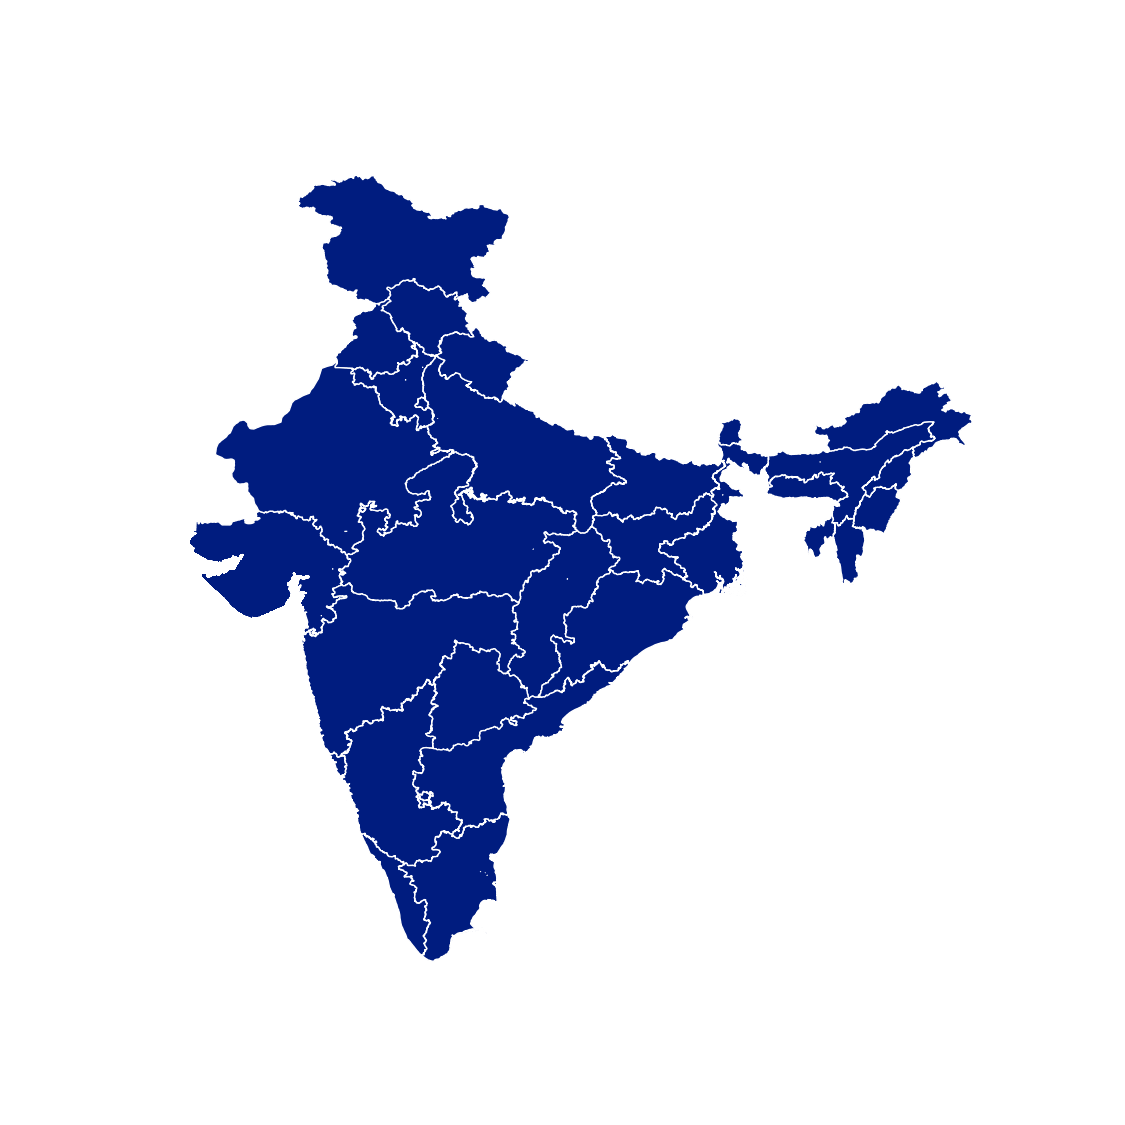
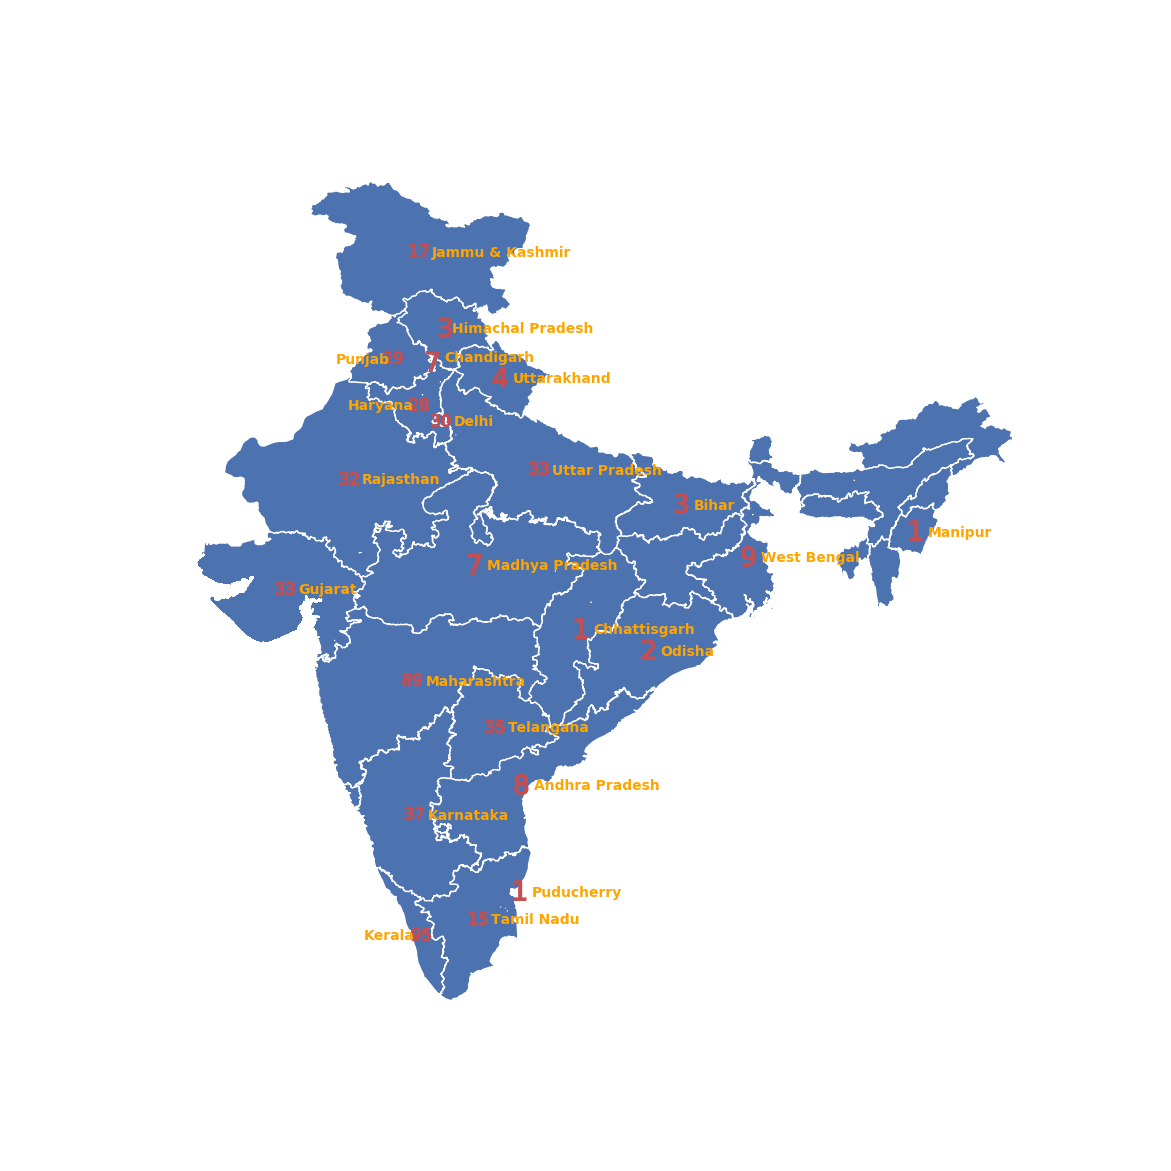
Image Generation Script Ready

Changed region(s): [[0.1556, 0.1556, 0.8711, 0.8711]]

diff --git a/map_generator.py b/map_generator.py
@@ -1,50 +1,104 @@
 import numpy as np
 import pandas as pd
 import matplotlib.pyplot as plt
+import matplotlib.pylab as pyl
 import seaborn as sns
 import geopandas as gpd
 import io
 from PIL import Image
 import cv2
+import json
+import urllib3
+# def calc_colour(value):
 
-## Initialize the Visualization
+
+# Load the JSON File and Fetch the Data
+http = urllib3.PoolManager()
+r = http.request('GET', 'http://corona.camcann.com/stats')
+data =  json.loads(r.data.decode('utf-8'))
+new = pd.DataFrame.from_dict(data['data']['regional'])
+
+# Including the Ladakh UT stats along with Jammu and Kashmir Region Only and other Mofifications
+for x in new.columns[:-1]:
+    new.loc[new['loc'] == 'Jammu and Kashmir',x] =   int(new.loc[new['loc'] == 'Jammu and Kashmir'][x].values + new.loc[new['loc'] == 'Ladakh'][x].values)
+new.drop(new[new['loc'] == 'Ladakh'].index, inplace = True)
+new.loc[new['loc'] == 'Telengana', 'loc'] = 'Telangana'
+new.loc[new['loc'] == 'Jammu and Kashmir', 'loc'] = 'Jammu & Kashmir'
+new.reset_index(level=0, inplace=True)
+new.drop('index', axis = 1,inplace = True)
+new.columns = ['confirmedCasesForeign', 'confirmedCasesIndian', 'deaths', 'discharged','st_nm']
+states = list(new['st_nm'])
+
+
+# ## Initialize the Visualization and Read the Template
+image = cv2.imread('template2.png')
+# image = cv2.resize(image, (1125,1125))
+image[np.where((image==[255,255,255]).all(axis=2))] = [0,0,0];
 sns.set(style = 'whitegrid', palette = 'dark', color_codes = True)
-my_dpi = 96
-figsize = (1080/my_dpi,1080/my_dpi)
-plt.rcParams['figure.figsize'] = figsize
+figsize = (image.shape[0]/96,image.shape[1]/96)
+sns.set(rc={'figure.figsize':figsize})
 
-## Read the Shape Files
+# Read the Shape Files
 shp_path = 'Indian_States.shp'
 sdf = gpd.read_file(shp_path)
 
-## Considering only the Mainland India
+# Considering only the Mainland India and making modifications in dataframe
+sdf.loc[sdf['st_nm'] == 'NCT of Delhi','st_nm'] = 'Delhi'
 sdf = sdf.iloc[1:,:]
 sdf.drop([16], inplace = True)
+sdf.plot()
 
-sdf['centroid_x'] = 0
-sdf['centroid_y'] = 0
-for i in sdf.index:
-    sdf.loc[i, 'centroid_x'] = sdf.loc[i,'geometry'].centroid.x
-    sdf.loc[i, 'centroid_y'] = sdf.loc[i,'geometry'].centroid.y
+ssdf = pd.DataFrame(sdf[sdf['st_nm'].isin(states)])
+ssdf.reset_index(level=0, inplace=True)
+ssdf.drop('index', axis = 1, inplace = True)
+print(ssdf)
+st_names = list(ssdf.st_nm)
 
-x_list = list(sdf['centroid_x'])
-y_list = list(sdf['centroid_y'])
-st_names = list(sdf.st_nm)
-image = cv2.imread('template.jpg')
-fig = sdf.plot()
+
+# Calculating centroid points
+ssdf['centroid_x'] = 0
+ssdf['centroid_y'] = 0
+ssdf['confirmedCases'] = 0
+print(ssdf.columns)
+print(new.columns)
+for i in ssdf.index:
+    st = ssdf.loc[i]['st_nm']
+    cc = new.loc[new['st_nm'] == st]['confirmedCasesForeign'].values + new.loc[new['st_nm'] == st]['confirmedCasesIndian'].values
+    ssdf.loc[i, 'centroid_x'] = ssdf.loc[i,'geometry'].centroid.x
+    ssdf.loc[i, 'centroid_y'] = ssdf.loc[i,'geometry'].centroid.y
+    ssdf.loc[i, 'confirmedCases'] = cc
+x_list = list(ssdf['centroid_x'])
+y_list = list(ssdf['centroid_y'])
+confirmedCases = list(ssdf['confirmedCases'])
+
+
+
+
+
 plt.axis('off')
-# for i,st in enumerate(st_names):
-#     plt.scatter(x_list[i],y_list[i],c = 'r', s = 250, marker=r"$ {} $".format(i))
-
+for i,st in enumerate(st_names):
+    # print(st)
+    if st == 'Punjab':
+        plt.text(x_list[i]-2,y_list[i]-0.2,st, fontsize=10,fontweight = 'extra bold', color = 'orange')
+    elif st == "Chandigarh":
+        plt.text(x_list[i]+0.5,y_list[i],st, fontsize=10,fontweight = 'extra bold', color = 'orange')
+    elif st == 'Himachal Pradesh':
+        plt.text(x_list[i]+0.3,y_list[i]-0.2,st, fontsize=10,fontweight = 'extra bold', color = 'orange')
+    elif st == 'Haryana':
+        plt.text(x_list[i]-2.5,y_list[i]-0.2,st, fontsize=10,fontweight = 'extra bold', color = 'orange')
+    elif st == 'Kerala':
+        plt.text(x_list[i]-2,y_list[i]-0.2,st, fontsize=10,fontweight = 'extra bold', color = 'orange')
+    else:
+        plt.text(x_list[i]+0.5,y_list[i]-0.2,st, fontsize=10,fontweight = 'extra bold', color = 'orange')
+    plt.scatter(x_list[i],y_list[i],c = 'r', s = 200, marker=r"$ {} $".format(confirmedCases[i]))
 
 plt.savefig('map.png')
 map = cv2.imread('map.png')
+map = cv2.resize(map, (image.shape[0], image.shape[1]))
+final = image + map
+cv2.imshow('Final', final)
 
 
-map = cv2.resize(map,(image.shape[0],image.shape[1]))
-alpha = 0.2
-final = cv2.addWeighted(image[0:image.shape[0],0:image.shape[1],:],alpha,map[0:map.shape[0],0:map.shape[1],:],1-alpha,0)
-cv2.imshow('Final',final)
 k = cv2.waitKey(1)
 flag = True
 
